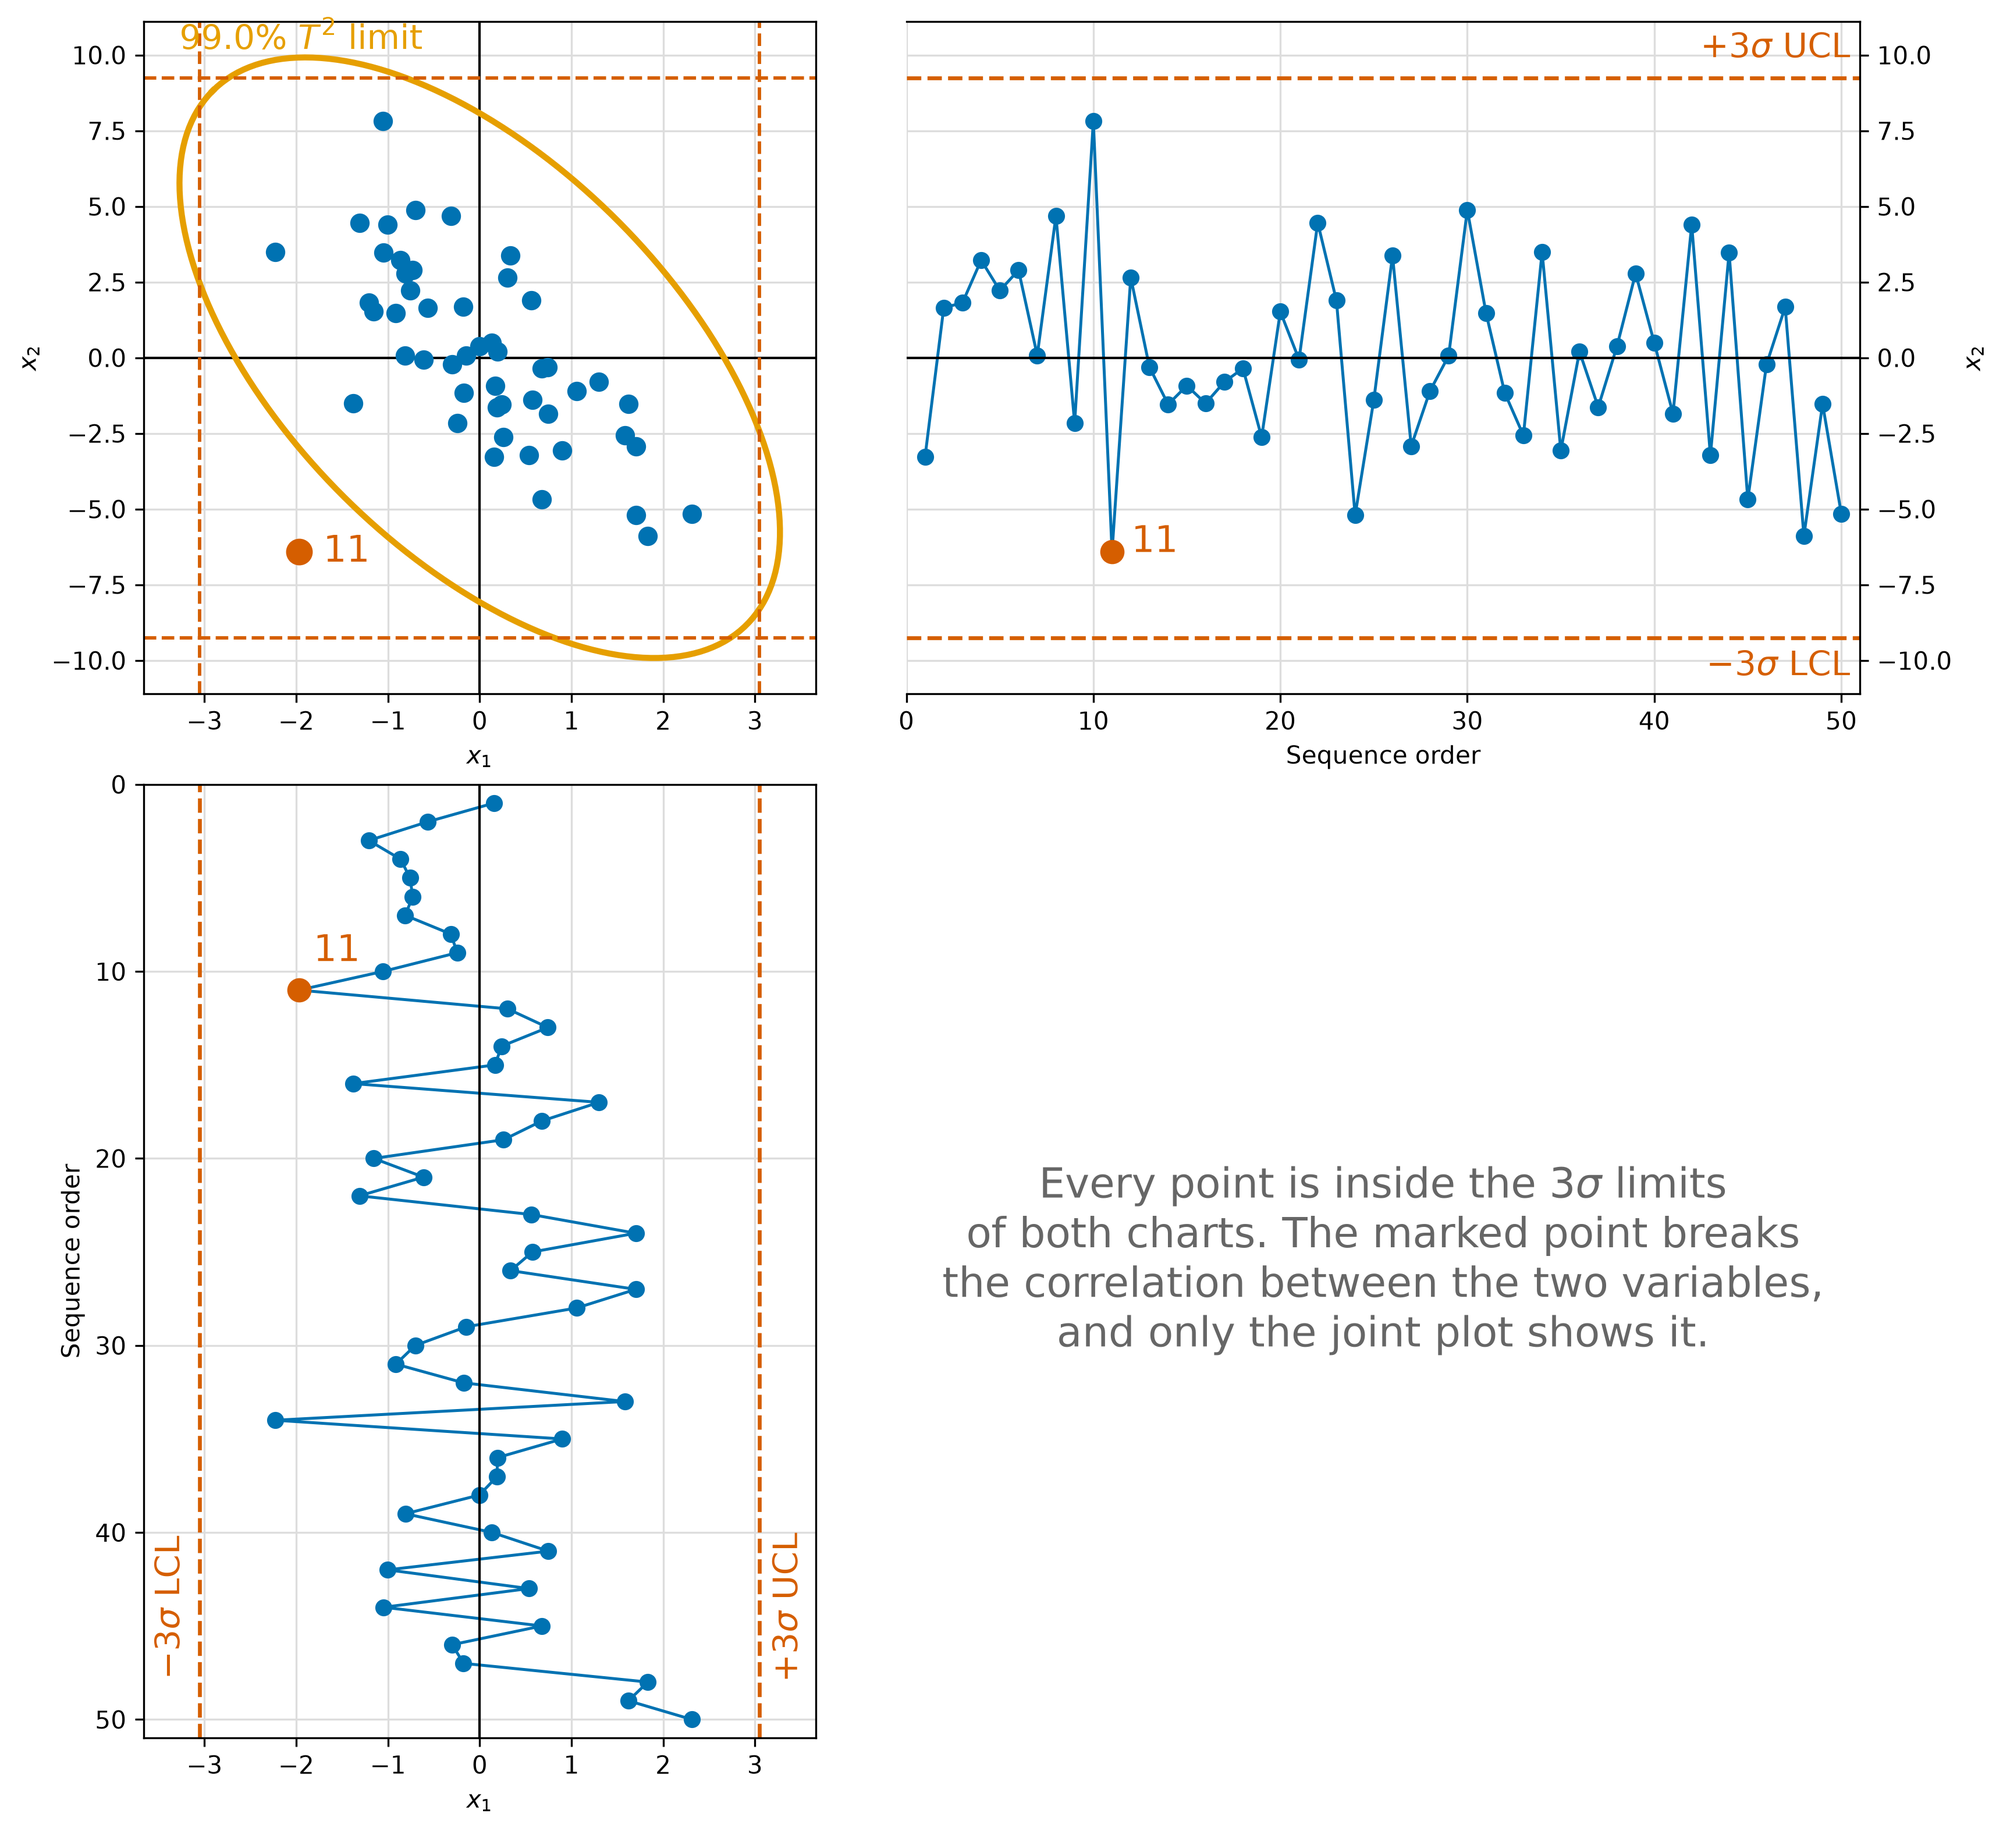
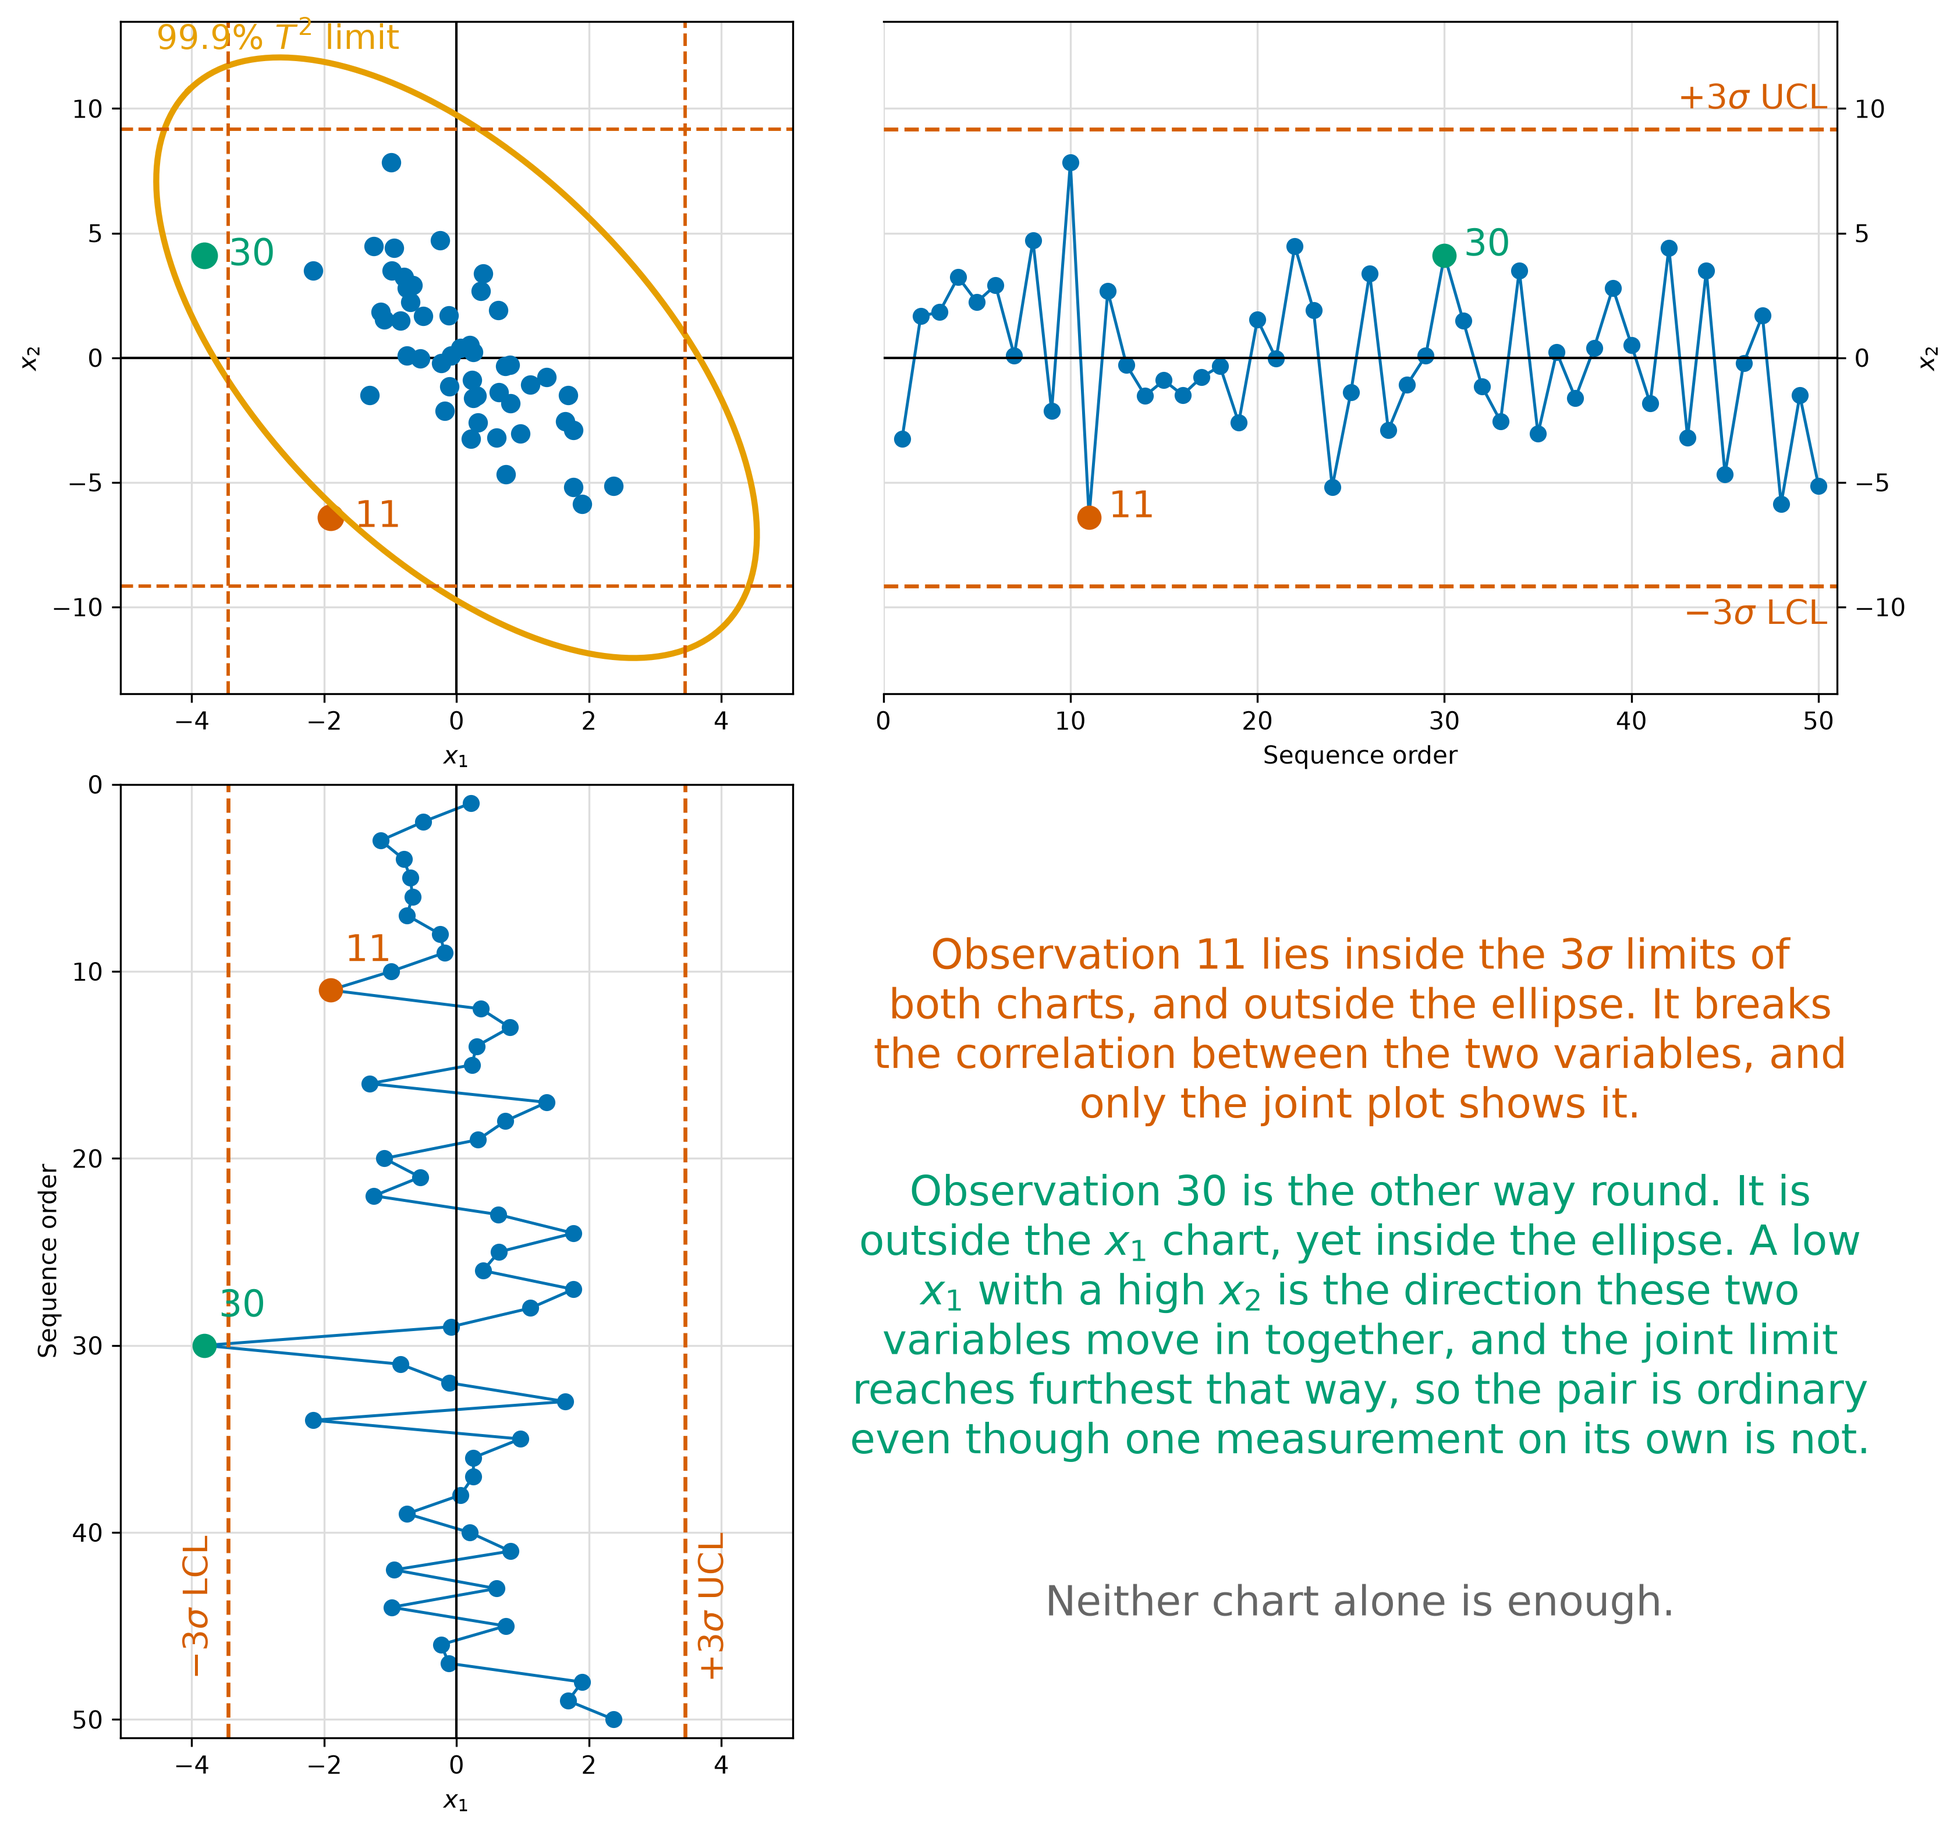
Restore the 3-sigma-matched ellipse, and show the disagreement both ways
The confidence level goes back to norm.cdf(3) = 99.87%, for the reason it
was there: it is the one-sided normal tail at 3 sigma, so the ellipse
carries the same nominal confidence as the charts beside it. That is what
makes the comparison in this figure fair, since neither method can then be
said to have been given the easier limit. The comment now says so, rather
than leaving the next reader to rediscover it.

Observation 30 is added, and it is the converse of observation 11. Its x1
lands past its own 3-sigma limit, 3.81 against 3.45, while its x2 is
unremarkable at 45% of its limit, and the pair sits at 74% of the joint
limit, inside the ellipse. A low x1 with a high x2 is the direction these
two variables move in together, and the ellipse reaches furthest that way.

It is placed off the correlation line rather than on it. On the line, the
x1 breach forces x2 to about 2.5 sigma, close enough to its own limit that
the top panel reads as a second alarm and the point of the example is lost.
Off the line, the x1 chart alarms, the x2 chart plainly does not, and the
ellipse plainly accepts the pair.

The two marked observations now have a colour each, in all three panels,
and the reading of the figure covers both directions of disagreement.

Claude-Session: https://claude.ai/code/session_01D58KmvE1L75DDE7pqfJPeL

diff --git a/monitoring/two_axis_monitoring_figure.py b/monitoring/two_axis_monitoring_figure.py
@@ -1,10 +1,12 @@
 """The two-variable monitoring figure for the multivariate monitoring chapter.
 
 Writes ``two-axis-monitoring-plot.png``: two negatively correlated variables,
-each of them inside its own 3-sigma Shewhart limits at every time point,
-shown together with their joint scatter plot and the Hotelling's T-squared
-ellipse. Observations that no univariate chart flags can still sit well
-outside the ellipse, which is the point the section makes.
+shown with their joint scatter plot and the Hotelling's T-squared ellipse.
+Two observations are marked, one for each way the univariate and joint
+views can disagree: observation 11 is inside both 3-sigma charts and
+outside the ellipse, and observation 30 is outside one chart and inside the
+ellipse. Neither view alone is sufficient, which is the point the section
+makes.
 
 The layout keeps the original arrangement: the joint scatter plot in the
 corner, with each variable's time series running away from it along the
@@ -14,15 +16,16 @@ This replaces ``two-axis-monitoring-plot.py``, which was Python 2 and used
 several matplotlib arguments that have since been removed
 (``spines.iteritems()``, ``annotate(s=...)``, ``papertype``,
 ``orientation``). The data are the same: fifty observations from the same
-seeded generator, with one point moved off the correlation line.
+seeded generator, with one point moved off the correlation line, and one
+added along it.
 
 Beyond redrawing, the figure now:
 
 - draws the flagged observations in one colour rather than cycling through
   six, so "outlier" reads as one category instead of six;
-- marks, in all three panels, the one observation that no univariate
-  chart flags but that falls outside the ellipse, which is the comparison
-  being made;
+- marks, in all three panels and in its own colour, each of the two
+  observations on which the univariate and joint readings disagree, which
+  is the comparison being made;
 - labels both charts, signs the limits so the reader can tell the upper
   from the lower without reading the words, and puts each pair of limit
   labels at the far end of its panel, away from the joint plot;
@@ -49,6 +52,7 @@ import scipy.stats
 BLUE = "#0072B2"
 VERMILLION = "#D55E00"
 ORANGE = "#E69F00"
+GREEN = "#009E73"
 GREY = "#666666"
 GRID = "#DDDDDD"
 
@@ -70,9 +74,16 @@ def simulated_data() -> np.ndarray:
     data = generator.standard_normal((N, K))
     data[:, 1] = SLOPE * data[:, 0] + NOISE * data[:, 1]
     # Move observation 11 (index 10) off the correlation line, without
-    # taking either variable outside its own limits.
+    # taking either variable outside its own limits: a joint outlier that
+    # neither univariate chart sees.
     data[10, 0] = -2.0 + generator.standard_normal(1)[0] * 0.01
     data[10, 1] = SLOPE * data[10, 0] + NOISE * data[10, 1] - 12
+    # Observation 30 (index 29) is the converse: low x1 with high x2, the
+    # direction the two variables move in together, which is where the
+    # ellipse reaches furthest. x1 lands past its own 3-sigma limit (3.81
+    # against 3.45) while x2 is unremarkable at 45% of its limit, and the
+    # pair sits at 74% of the joint limit, inside the ellipse.
+    data[29] = np.array([-3.9, 4.0])
     return data - data.mean(axis=0)
 
 
@@ -98,15 +109,11 @@ def hotelling(data: np.ndarray, confidence: float):
 
 def main(outdir: pathlib.Path) -> None:
     data = simulated_data()
-    # The ellipse was previously drawn at norm.cdf(3) = 99.87%, tying it to
-    # the 3-sigma charts so neither could be accused of having the easier
-    # limit. 99% is a rounder number, closer to the 95% used later in the
-    # chapter, and still leaves observation 11 as the only one outside:
-    # its T2 is 19.67 against a limit of 10.57, and the next largest is
-    # 6.85. Going down to 95% would not do, since that limit of 6.64 also
-    # catches observation 10, and the text describes a single sample.
-    CONFIDENCE = 0.99
-    confidence = CONFIDENCE
+    # The ellipse carries the same nominal confidence as the charts beside
+    # it: norm.cdf(3) = 99.87% is the one-sided normal tail at 3 sigma. Tying
+    # the two together is what makes the comparison in this figure fair, since
+    # neither method can then be said to have been given the easier limit.
+    confidence = float(scipy.stats.norm.cdf(SIGMA))
     upper = data.mean(axis=0) + SIGMA * data.std(axis=0, ddof=1)
     lower = data.mean(axis=0) - SIGMA * data.std(axis=0, ddof=1)
 
@@ -123,10 +130,13 @@ def main(outdir: pathlib.Path) -> None:
           + (", ".join(str(i + 1) for i in np.flatnonzero(joint)) or "none"))
     print("only the ellipse catches: "
           + (", ".join(str(i + 1) for i in np.flatnonzero(joint & ~univariate)) or "none"))
+    print("only a univariate chart catches: "
+          + (", ".join(str(i + 1) for i in np.flatnonzero(univariate & ~joint)) or "none"))
 
     span = np.max(np.abs(np.vstack([data, ellipse])), axis=0) * 1.12
     time = np.arange(1, N + 1)
-    only_joint = joint & ~univariate
+    only_joint = joint & ~univariate            # the ellipse alone flags these
+    only_univariate = univariate & ~joint       # a Shewhart chart alone flags these
 
     # The scatter plot sits in the top left; x1 runs down the left-hand
     # panel and x2 runs across the top panel, so each point can be traced
@@ -155,6 +165,8 @@ def main(outdir: pathlib.Path) -> None:
     scatter.axvline(0, color="black", linewidth=1.0)
     scatter.plot(data[:, 0], data[:, 1], "o", markersize=7, color=BLUE)
     scatter.plot(data[joint, 0], data[joint, 1], "o", markersize=10, color=VERMILLION)
+    scatter.plot(data[only_univariate, 0], data[only_univariate, 1], "o",
+                 markersize=10, color=GREEN)
     scatter.plot(ellipse[:, 0], ellipse[:, 1], color=ORANGE, linewidth=2.5)
     for value in (lower[0], upper[0]):
         scatter.axvline(value, color=VERMILLION, linestyle="--", linewidth=1.4)
@@ -174,6 +186,7 @@ def main(outdir: pathlib.Path) -> None:
     across.grid(color=GRID, linewidth=0.8)
     across.plot(time, data[:, 1], "-o", color=BLUE, markersize=6, linewidth=1.2)
     across.plot(time[joint], data[joint, 1], "o", color=VERMILLION, markersize=9)
+    across.plot(time[only_univariate], data[only_univariate, 1], "o", color=GREEN, markersize=9)
     across.axhline(0, color="black", linewidth=1.0)
     for value in (lower[1], upper[1]):
         across.axhline(value, color=VERMILLION, linestyle="--", linewidth=1.6)
@@ -196,6 +209,7 @@ def main(outdir: pathlib.Path) -> None:
     down.grid(color=GRID, linewidth=0.8)
     down.plot(data[:, 0], time, "-o", color=BLUE, markersize=6, linewidth=1.2)
     down.plot(data[joint, 0], time[joint], "o", color=VERMILLION, markersize=9)
+    down.plot(data[only_univariate, 0], time[only_univariate], "o", color=GREEN, markersize=9)
     down.axvline(0, color="black", linewidth=1.0)
     for value in (lower[0], upper[0]):
         down.axvline(value, color=VERMILLION, linestyle="--", linewidth=1.6)
@@ -210,24 +224,38 @@ def main(outdir: pathlib.Path) -> None:
     down.set_xlabel("$x_1$")
     down.set_ylabel("Sequence order")
 
-    for index in np.flatnonzero(only_joint):
-        scatter.annotate(f"{index + 1}", (data[index, 0], data[index, 1]),
-                         textcoords="offset points", xytext=(10, -4),
-                         color=VERMILLION, fontsize=15)
-        across.annotate(f"{index + 1}", (index + 1, data[index, 1]),
-                        textcoords="offset points", xytext=(8, 0),
-                        color=VERMILLION, fontsize=15)
-        down.annotate(f"{index + 1}", (data[index, 0], index + 1),
-                      textcoords="offset points", xytext=(6, 12),
-                      color=VERMILLION, fontsize=15)
+    for marked, colour in ((only_joint, VERMILLION), (only_univariate, GREEN)):
+        for index in np.flatnonzero(marked):
+            scatter.annotate(f"{index + 1}", (data[index, 0], data[index, 1]),
+                             textcoords="offset points", xytext=(10, -4),
+                             color=colour, fontsize=15)
+            across.annotate(f"{index + 1}", (index + 1, data[index, 1]),
+                            textcoords="offset points", xytext=(8, 0),
+                            color=colour, fontsize=15)
+            down.annotate(f"{index + 1}", (data[index, 0], index + 1),
+                          textcoords="offset points", xytext=(6, 12),
+                          color=colour, fontsize=15)
 
     # The quarter opposite the scatter plot is the one place no axis can
-    # reach, so the reading of the figure goes there.
-    fig.text(left + panel + gap + run / 2, bottom + run / 2,
-             "Every point is inside the $3\\sigma$ limits\n"
-             "of both charts. The marked point breaks\n"
-             "the correlation between the two variables,\n"
-             "and only the joint plot shows it.",
+    # reach, so the reading of the figure goes there. Each paragraph is in
+    # the colour of the observation it describes.
+    middle = left + panel + gap + run / 2
+    fig.text(middle, bottom + run * 0.74,
+             "Observation 11 lies inside the $3\\sigma$ limits of\n"
+             "both charts, and outside the ellipse. It breaks\n"
+             "the correlation between the two variables, and\n"
+             "only the joint plot shows it.",
+             fontsize=17, ha="center", va="center", color=VERMILLION)
+    fig.text(middle, bottom + run * 0.44,
+             "Observation 30 is the other way round. It is\n"
+             "outside the $x_1$ chart, yet inside the ellipse. A low\n"
+             "$x_1$ with a high $x_2$ is the direction these two\n"
+             "variables move in together, and the joint limit\n"
+             "reaches furthest that way, so the pair is ordinary\n"
+             "even though one measurement on its own is not.",
+             fontsize=17, ha="center", va="center", color=GREEN)
+    fig.text(middle, bottom + run * 0.14,
+             "Neither chart alone is enough.",
              fontsize=17, ha="center", va="center", color=GREY)
 
     fig.savefig(outdir / "two-axis-monitoring-plot.png", dpi=DPI, bbox_inches="tight")
